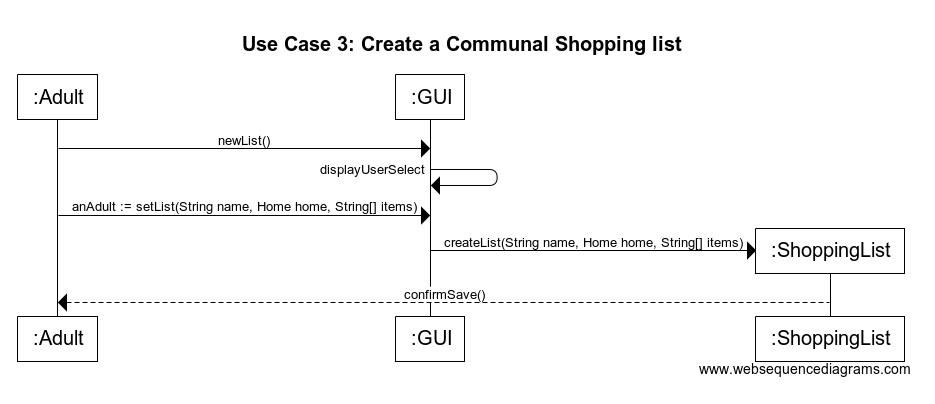
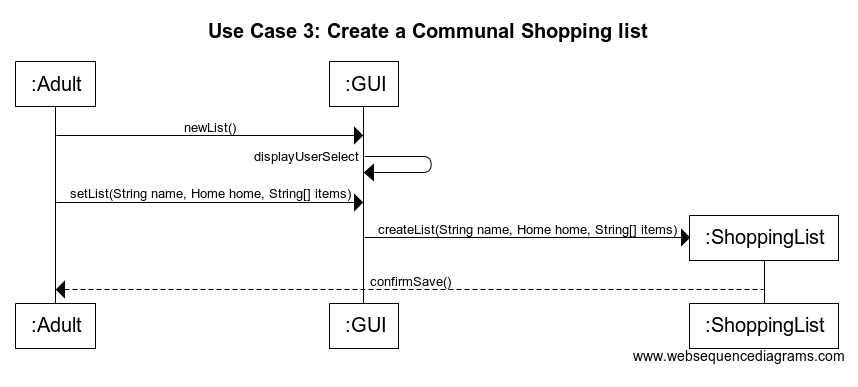
updated sequence diagram files

Changed region(s): [[0.0, 0.155, 1.0, 0.9612], [0.2424, 0.062, 0.7576, 0.155], [0.3939, 0.155, 0.4848, 0.3101]]

diff --git a/Deliverables/Sequence Diagrams/SequenceDiagram3.md b/Deliverables/Sequence Diagrams/SequenceDiagram3.md
@@ -2,6 +2,6 @@ title Use Case 3: Create a Communal Shopping list
 
 ":Adult"->":GUI":newList()
 ":GUI"->":GUI": displayUserSelect
-":Adult"->":GUI": anAdult := setList(String name, Home home, String[] items)
+":Adult"->":GUI": setList(String name, Home home, String[] items)
 ":GUI"->*":ShoppingList": createList(String name, Home home, String[] items)
 ":ShoppingList"-->":Adult": confirmSave()
